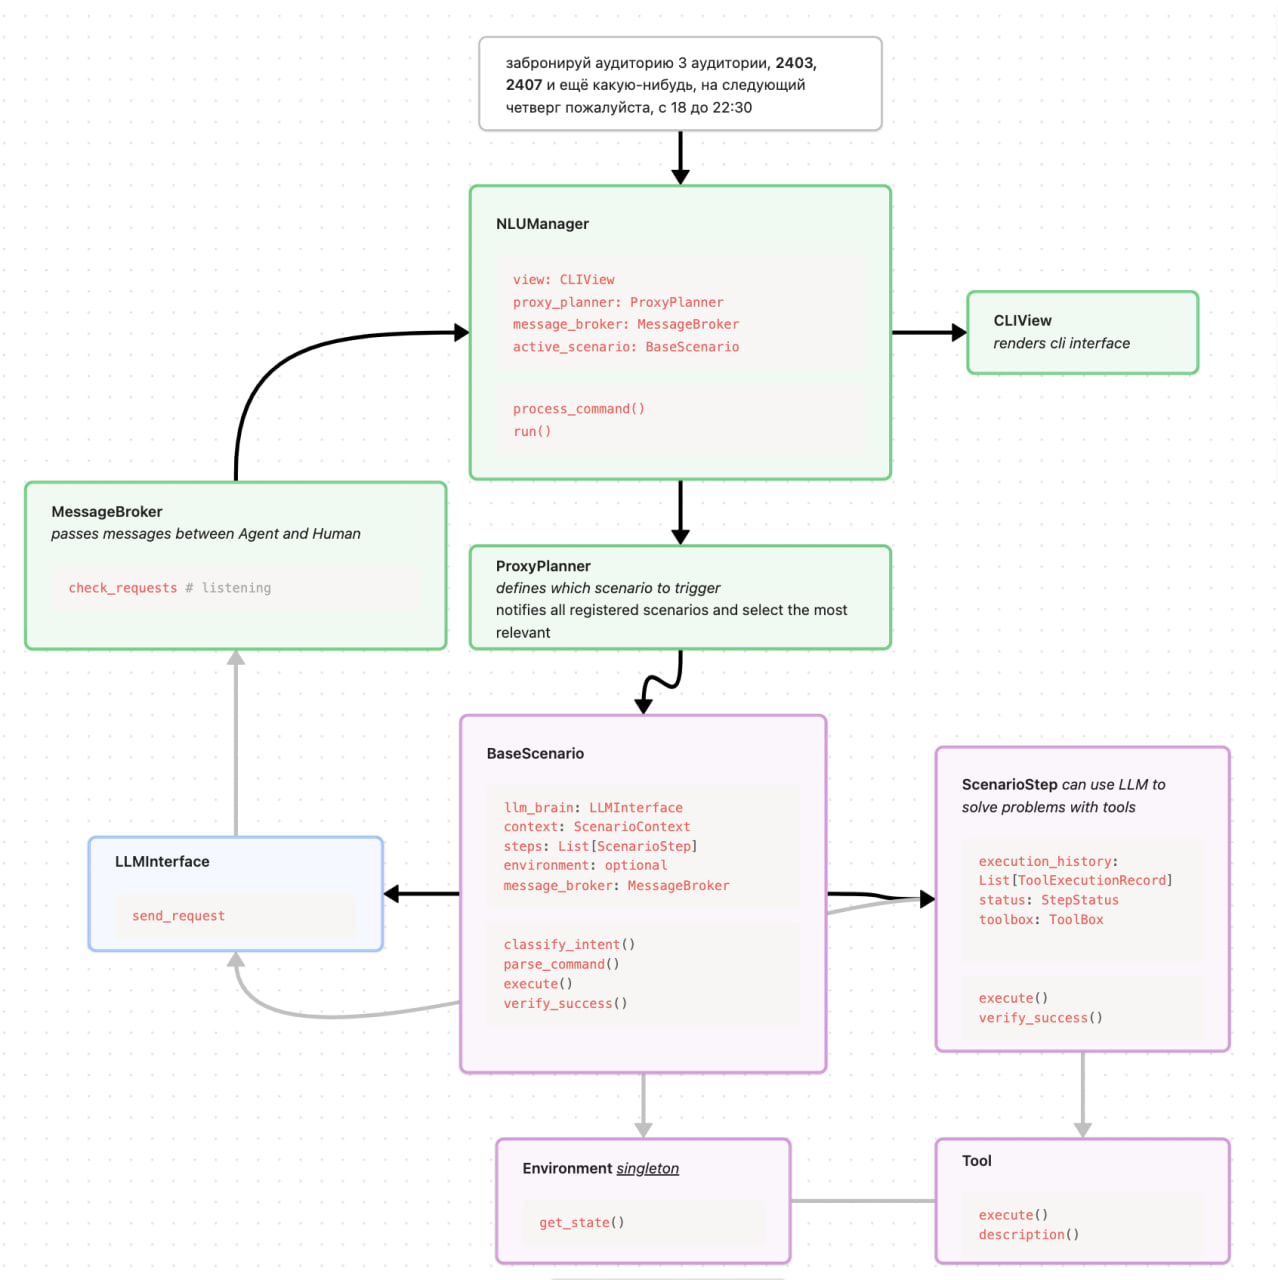
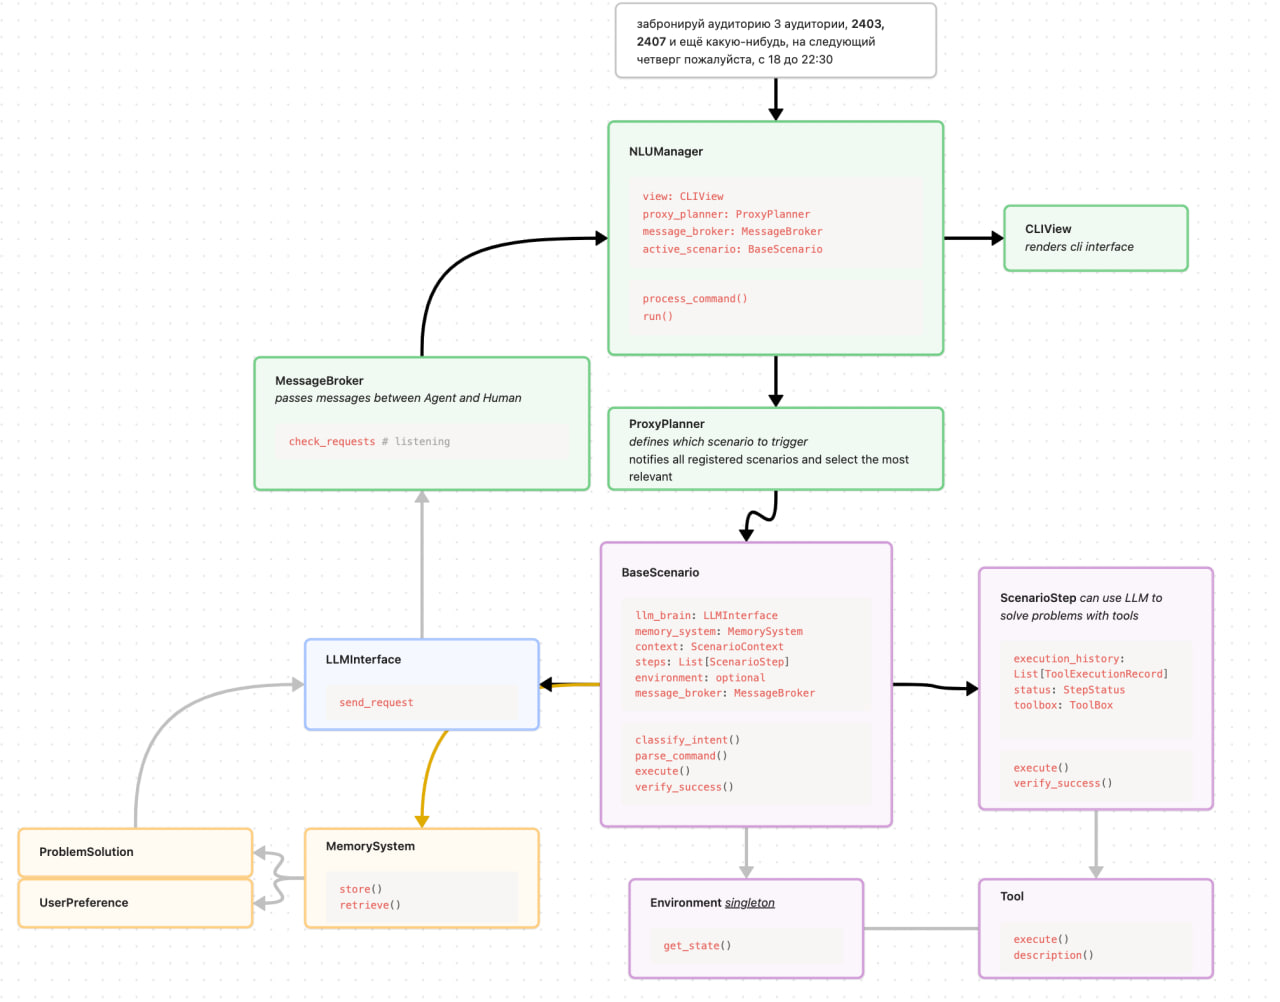
Description updated.

diff --git a/README.md b/README.md
@@ -6,8 +6,11 @@ This project implements an autonomous agent powered by Large Language Models (LL
 The agent can:
 - Process natural language commands
 - Define which scenario should be used
+- Extract and store user preferences
 - Break down complex tasks into manageable steps 
 - Request human assistance when needed
+- Solve problems by using a set of tools, storing successful solutions in memory
+- Remember user preferences and previous interactions and retrieve them when needed
 
 
 Example command:
@@ -20,41 +23,44 @@ The agent handles the entire workflow - from login to form submission, with huma
 ├── Dockerfile                    # Container definition for running the application
 ├── README.md
 ├── config.yaml.example           # Template configuration file for new deployments
-├── docker-compose.yml           # Multi-container Docker composition definition
+├── docker-compose.yml            # Multi-container Docker composition definition
 
-├── docs/                        # Documentation directory
-│
 
-├── src/                        # Source code directory
-│   ├── config.py              # Load config file
-│   ├── llm_interface.py       # Universal for different provider LLM integration interface
-│   ├── message_broker.py      # Handles async communication between components (now between llm and user)
-│   ├── nlu_manager.py         # Core file – Assistant itself
-│   ├── planner.py            # User NL Task planning logic
-│   ├── view.py               # User interface handling, now – cli
+├── src/                         # Source code directory
+│   ├── config.py               # Load config file
+│   ├── llm_interface.py        # Universal for different provider LLM integration interface
+│   ├── message_broker.py       # Handles async communication between components
+│   ├── nlu_manager.py          # Core file – Assistant itself
+│   ├── planner.py              # User NL Task planning logic
+│   ├── view.py                 # User interface handling, now – cli
 │   │
-│   ├── scenarios/            # Task execution scenarios
-│   │   ├── base.py          # Base scenario class and common functionality
-│   │   ├── booking/         # Halls booking specific scenarios (ИСУ ИТМО)
-│   │   └── prompts.py       # LLM prompts for LLM analyzing errors and suggesting tools
+│   ├── memory/                 # Memory system for retaining knowledge and experiences
+│   │   ├── embeddings.py       # Flexible vector embedding generation for semantic search
+│   │   ├── extractor.py        # Extracts preferences and solutions from interactions
+│   │   ├── interface.py        # Core memory system interface with ChromaDB
+│   │   └── models.py           # Data models for preferences and problem solutions
 │   │
+│   ├── scenarios/              # Task execution scenarios
+│   │   ├── base.py            # Base scenario class and common functionality
+│   │   ├── booking/           # Halls booking specific scenarios (ИСУ ИТМО)
+│   │   │   ├── booking.py          # Main booking scenario implementation
+│   │   │   └── ...                # Booking scenario steps
+│   │   └── prompts.py         # LLM prompts for analyzing errors and suggesting tools
 │   │
-│   └── tools/               # Tool implementations directory
-│    ├── base.py                    # defines Tool, EnvTool and ToolBox
-│    ├── browser/                   # Browser automation tools directory
-│    │   ├── base.py               # Base class for browser-specific tools
-│    │   ├── booking_utils.py      # Utility functions for room booking (interval mapping, room ID extraction, etc)
-│    │   ├── click.py              # Tools for clicking elements, handling navigation, filling forms
-│    │   ├── dropdown.py           # Tools for interacting with dropdown menus
-│    │   ├── get_text.py          # Tools for extracting text content from elements
-│    │   ├── environment.py        # Browser environment management and state tracking
-│    │   └── meta_tools/          # Complex composite tools combining multiple atomic operations
-│    │       ├── book_room_form.py     # Complete room booking form preparation workflow
-│    │       └── fill_book_form.py     # Form filling and submission workflow  
-│    ├── call_human.py            # Tool for requesting human assistance via message broker
-│    └── date.py                 # Handling requestes dates and intervals
+│   └── tools/                 # Tool implementations directory
+│       ├── base.py            # Defines Tool, EnvTool and ToolBox
+│       ├── browser/           # Browser automation tools directory
+│       │   ├── base.py        # Base class for browser-specific tools
+│       │   ├── ...           # Basic browser tools like click, fill, etc.
+│       │   ├── environment.py # Browser environment management and state tracking
+│       │   └── meta_tools/    # Complex composite tools 
+│       │       ├── ...
+│       ├── call_human.py      # Tool for requesting human assistance
+│       ├── call_memory.py     # Tools for querying memory system
+│       └── date.py            # Date and interval handling utilities
 
-├── tests/                   
+├── tests/                    # Test suite directory
+
 
 ├── pyproject.toml           # Python project metadata and dependencies
 └── uv.lock                  # Dependency lock file
@@ -70,11 +76,12 @@ The agent handles the entire workflow - from login to form submission, with huma
 2. NLUManager asks ProxyPlanner to map command on scenario
 3. ProxyPlanner maps command on BookingScenario
 4. Booking scenario triggers llm to parse command and extract entities
-5. Booking scenario starts browser execution (browser env singleton is created, the same browser is used for all user commands)
-6. Booking scenario goint steb by step, recording executiong history. If some step is failed, the llm agent will analyze the error and suggest tools to fix it.
-7. If agent need human help, it will ask for it via message broker.
+5. MemorySystem stores user preferences if it is new.
+6. Booking scenario starts browser execution (browser env singleton is created, the same browser is used for all user commands)
+7. Booking scenario goint steb by step, recording executiong history. If some step is failed, we will try to retrieve alike situation from memory and use it to solve the problem.  The llm agent will analyze the error and suggest tools to fix it, whether based on memory or on current context.
+7. If agent need human help, it will look up in something suitable in memory and ask user for help if nothing is found.
 8. The NLUManager listens to the message broker and if it gets a message from the agent, it will ask the user for help.
-9. The user will help the agent and the agent will continue the execution, implementing the user's advice.
+9. The user will help the agent and the agent will continue the execution, implementing the user's advice. We will save the solution in memory.
 10. When the scenario is finished, user can input new command or exit the program.
 
 ## How to run
@@ -82,7 +89,10 @@ The agent handles the entire workflow - from login to form submission, with huma
 2. Fill config.yaml with your data
 3. Run nlu_manager.py
 ```bash
+uv venv .venv
+uv sync
 docker-compose up -d
+source .venv/bin/activate
 python src/nlu_manager.py
 ```
 
